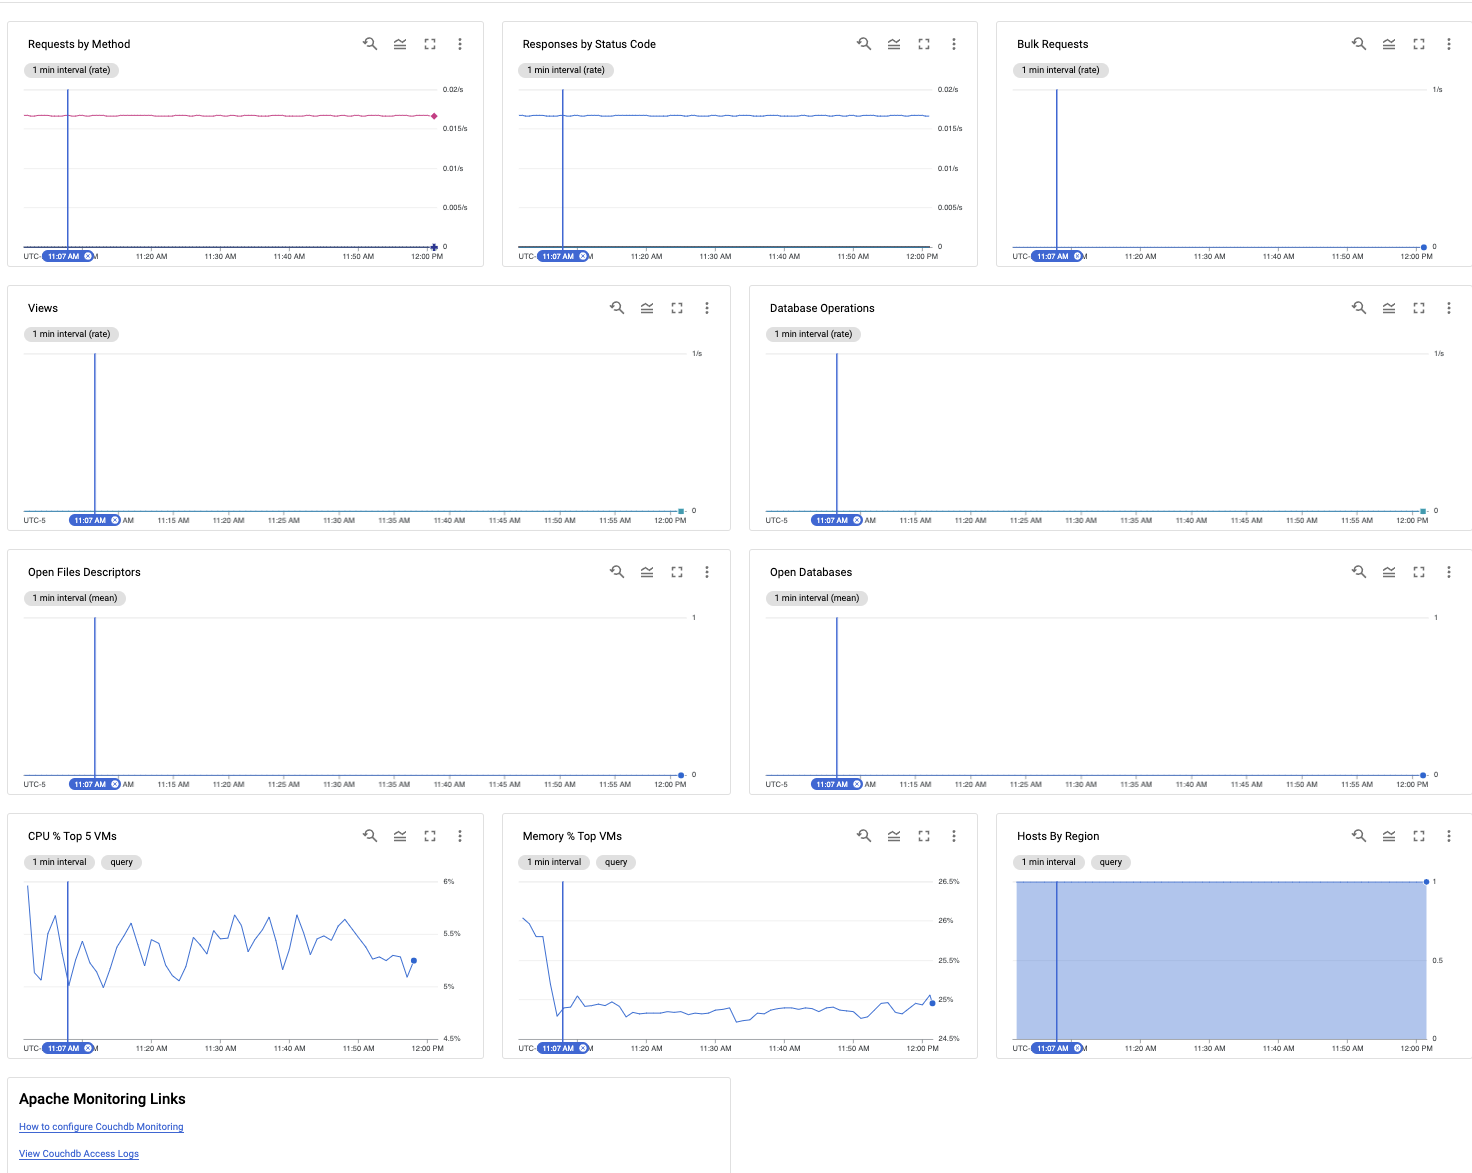
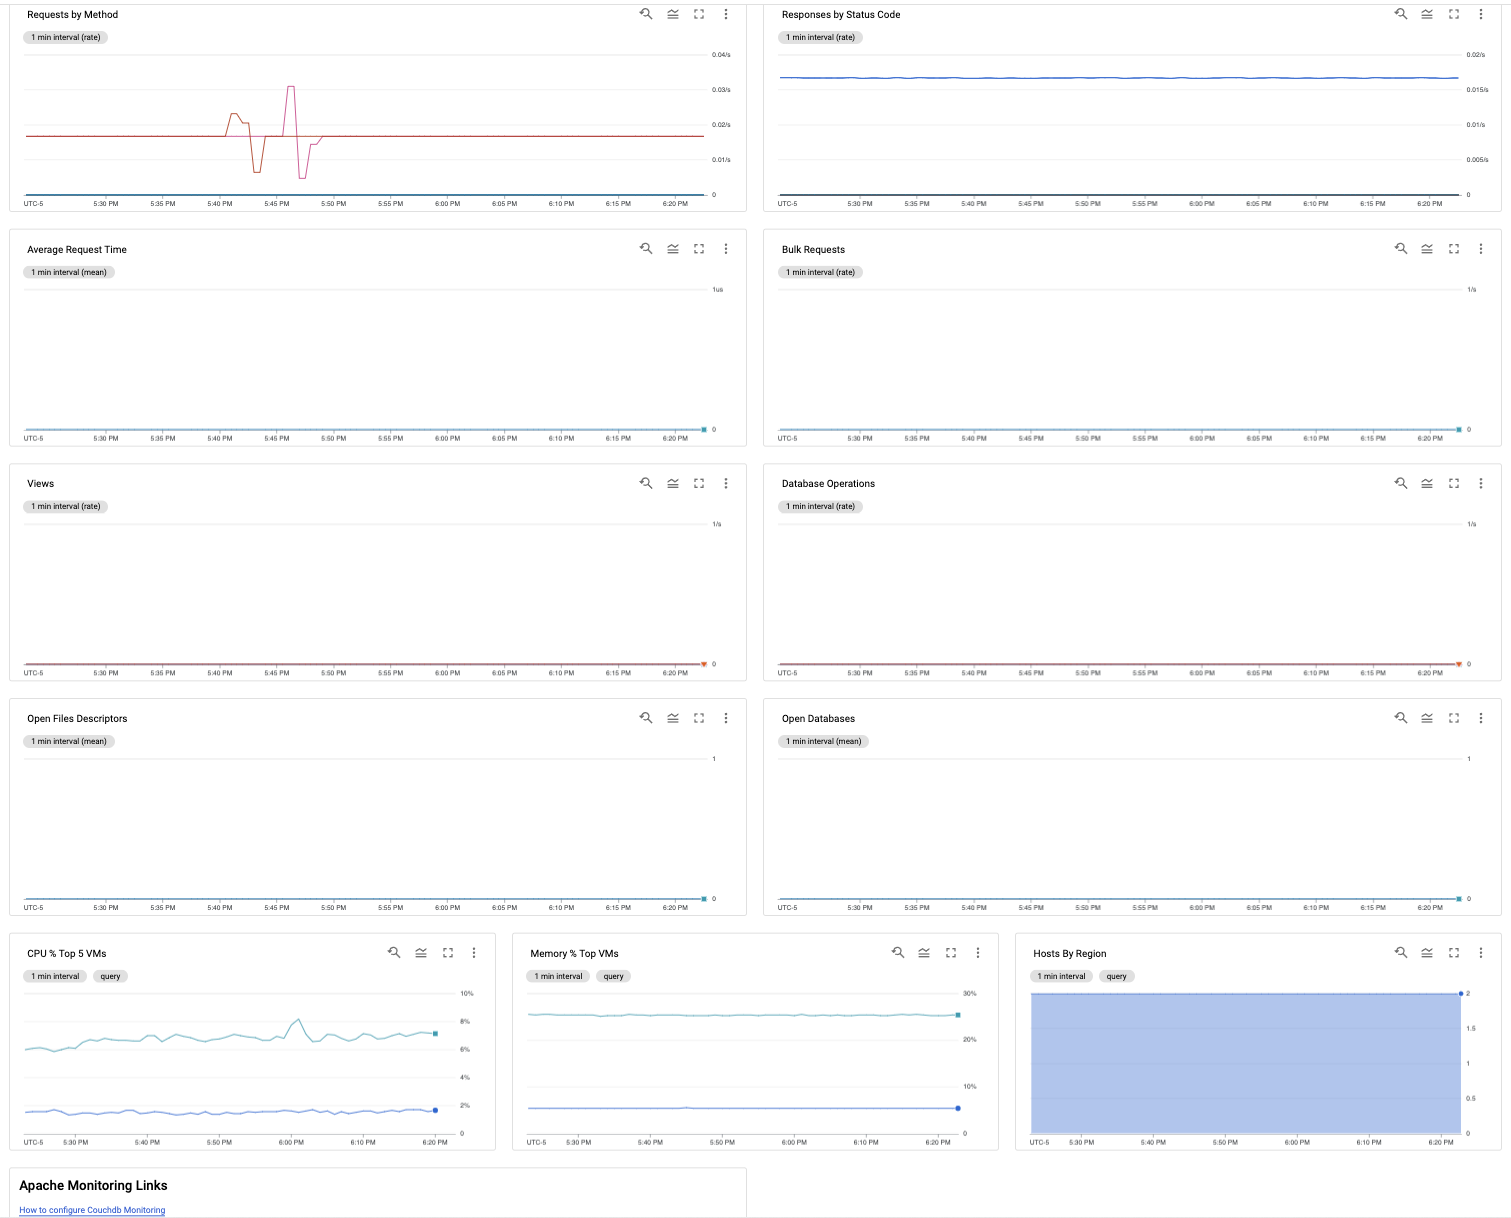
add average request time

diff --git a/dashboards/couchdb/README.md b/dashboards/couchdb/README.md
@@ -8,5 +8,5 @@
 |Couchdb GCE Overview|
 |:------------------|
 |Filename: [couchdb-gce-overview.json](couchdb-gce-overview.json)|
-|This dashboard has 11 charts for viewing couchdb when monitored by 
-[Google's Ops Agent](https://cloud.google.com/stackdriver/docs/solutions/agents/ops-agent/third-party/couchdb#monitored-metrics), including `Bulk Requests`, `Requests by Method`, `Responses by Status Code`, `Open Databases`, `Open Files Descriptors`, `Views`, `Database Operations`, `CPU % Top 5 VMs`, `Memory % Top VMs`, `Apache Monitoring Link`, and `Hosts By Region`.
+|This dashboard has 12 charts for viewing couchdb when monitored by 
+[Google's Ops Agent](https://cloud.google.com/stackdriver/docs/solutions/agents/ops-agent/third-party/couchdb#monitored-metrics), including `Average Request Time`, `Bulk Requests`, `Requests by Method`, `Responses by Status Code`, `Open Databases`, `Open Files Descriptors`, `Views`, `Database Operations`, `CPU % Top 5 VMs`, `Memory % Top VMs`, `Apache Monitoring Link`, and `Hosts By Region`.
